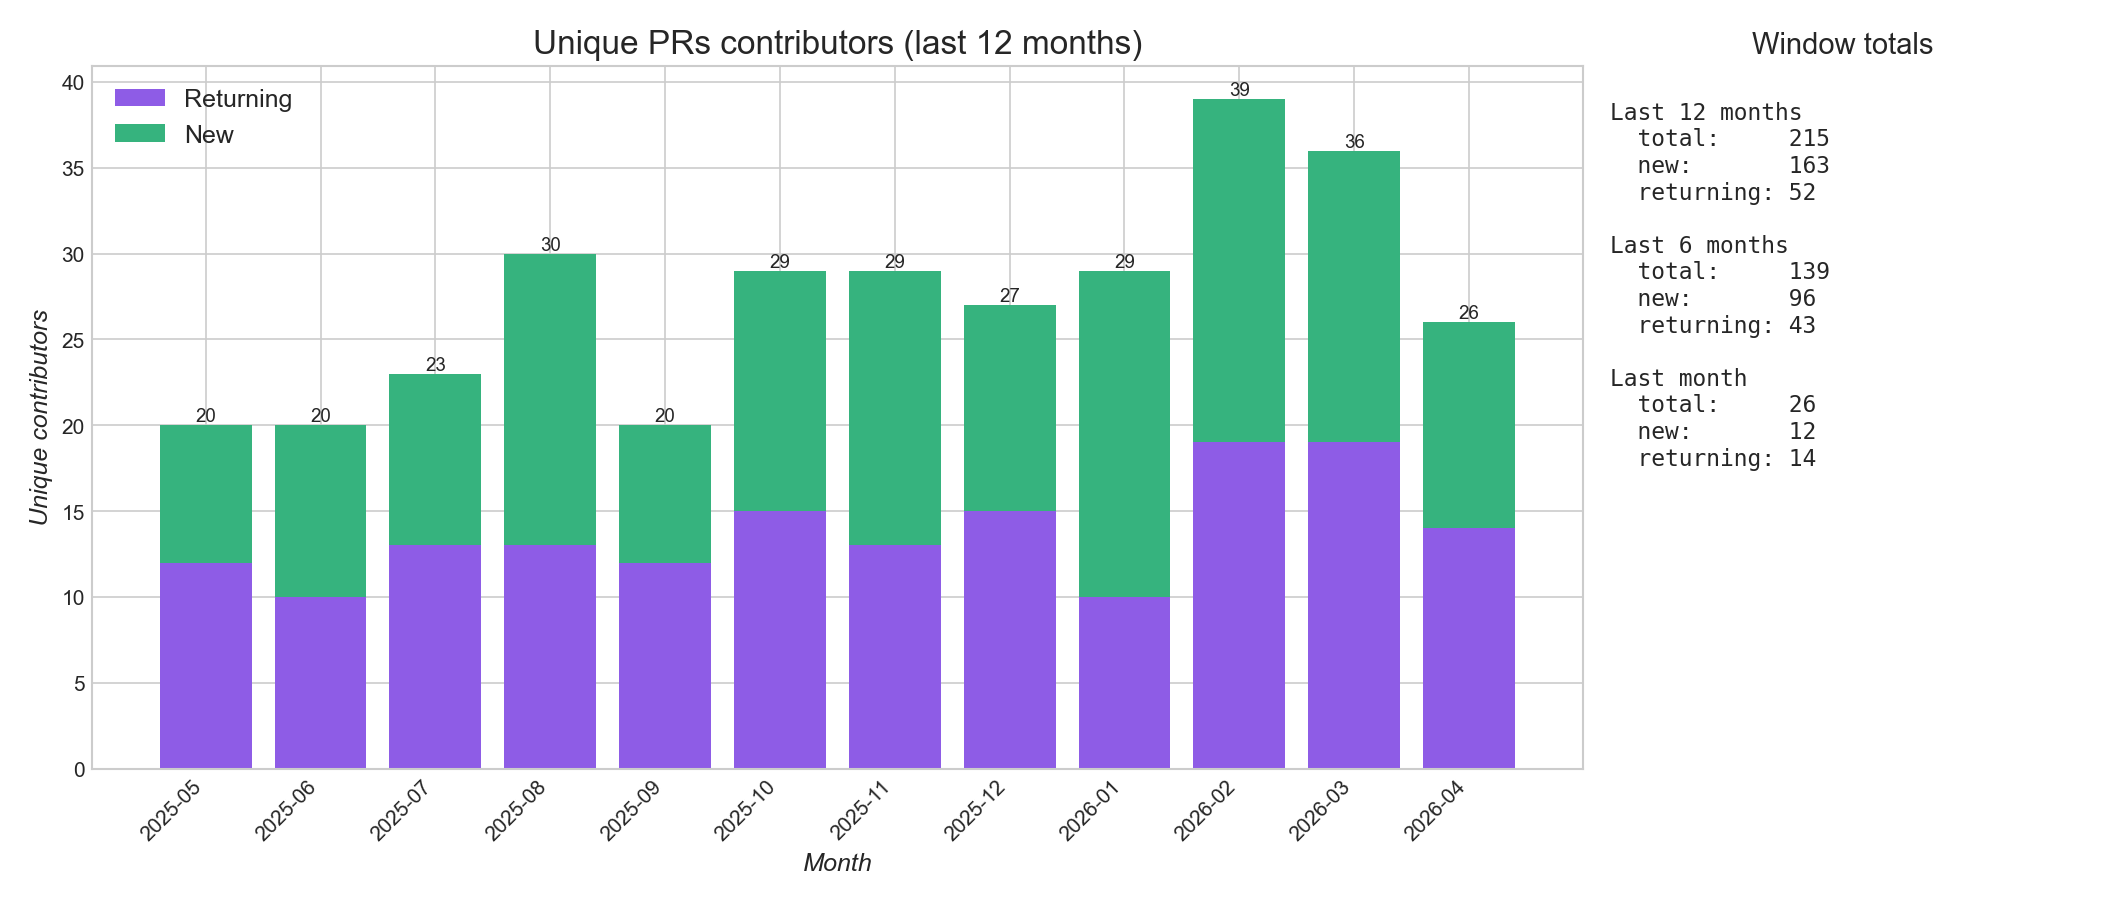
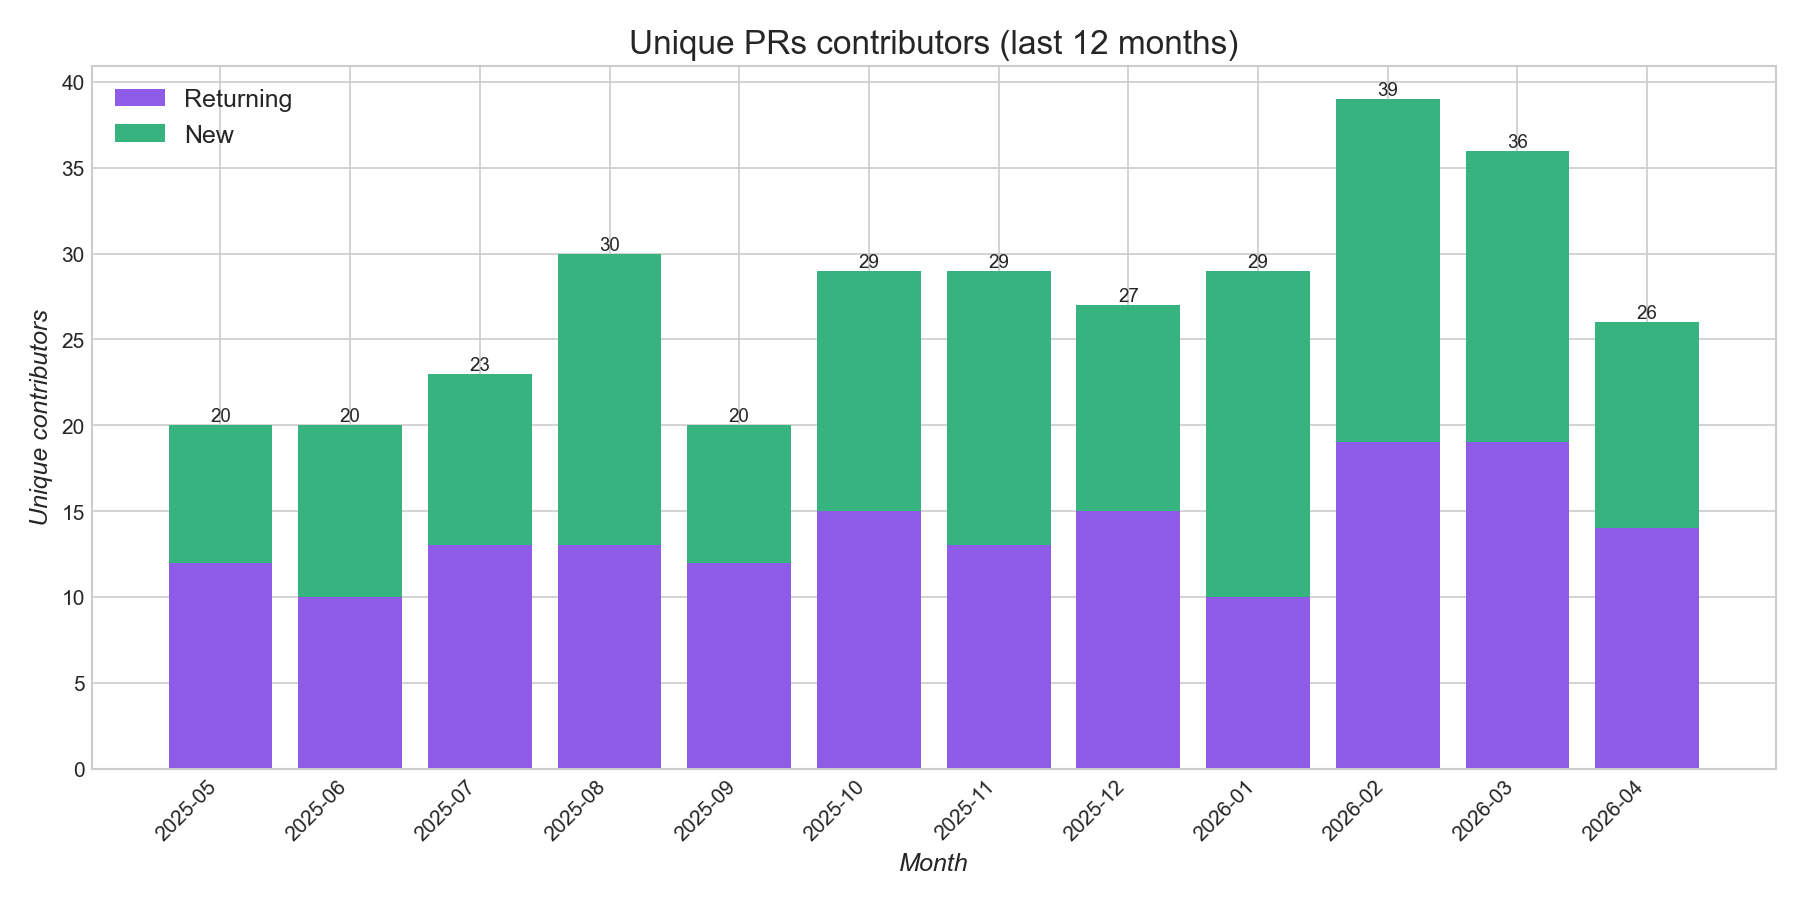
Polish unique-contributors chart; add per-year contributor table
The original chart paired the per-month stacked bars with a right-side
monospaced 'Window totals' panel. The text panel read like a separate
chart glued on, and the 12mo/6mo/1mo comparison was apples-to-oranges
anyway (cumulative windows of different sizes — last 12 months will
always be biggest by construction).

Two changes:

1. Drop the side panel. The timeline chart is now a single coherent
   stacked-bar figure with per-month totals annotated on top of each
   bar. Cleaner for slide use.

2. Replace the side panel with a per-year markdown table rendered into
   trends/{repo}.md between the markers
       <!-- AUTO:yearly-contributors:start -->
       <!-- AUTO:yearly-contributors:end -->
   Columns: Year | Unique | New | Returning. Per-year comparison is
   apples-to-apples and surfaces multi-year growth (e.g. vector PR
   contributors: 153 → 177 → 191 across 2023 → 2024 → 2025). The
   current calendar year is labeled '(YTD, Nmo)' so partial years are
   obvious.

diff --git a/scripts/util/plot.py b/scripts/util/plot.py
@@ -2,6 +2,7 @@ import argparse
 import hashlib
 import logging
 import os
+from pathlib import Path
 
 import matplotlib.pyplot as plt
 import numpy as np
@@ -248,6 +249,14 @@ def main():
 
             output_path = os.path.join(OUTPUT_DIR, f"{prefix}.unique_contributors.png")
             plot_unique_contributors(contributor_csv, table, output_path)
+
+            output_path = os.path.join(OUTPUT_DIR, f"{prefix}.unique_contributors_yearly.png")
+            plot_yearly_contributors(contributor_csv, table, output_path)
+
+            # Same data as the yearly chart, also written as a markdown
+            # table into trends/{repo}.md between AUTO markers.
+            trends_md = Path(SCRIPT_DIR).resolve().parents[1] / "trends" / f"{env['REPO_NAME']}.md"
+            update_yearly_contributors_table(contributor_csv, table, trends_md)
 
     # Discussion trends
     disc_prefix = f"{env['REPO_OWNER']}_{env['REPO_NAME']}_discussions"
@@ -686,20 +695,7 @@ def plot_unique_contributors(path, table, output_path, window_months=12):
         new_counts = per_month.get(True, pd.Series(0, index=window))
         returning_counts = per_month.get(False, pd.Series(0, index=window))
 
-        def window_stats(n_months):
-            recent = window[-n_months:]
-            sub = df_window[df_window["month"].isin(recent)]
-            total = sub["user_login"].nunique()
-            new_users = sub.loc[sub["is_new"], "user_login"].nunique()
-            return total, new_users, total - new_users
-
-        s12 = window_stats(12)
-        s6 = window_stats(6)
-        s1 = window_stats(1)
-
-        fig, (ax, ax_stats) = plt.subplots(
-            1, 2, figsize=(14, 6), gridspec_kw={"width_ratios": [3.2, 1]}
-        )
+        fig, ax = plt.subplots(figsize=(12, 6))
 
         x = np.arange(len(window))
         ax.bar(x, returning_counts.values, color="#8E5CE6", label="Returning")
@@ -715,32 +711,11 @@ def plot_unique_contributors(path, table, output_path, window_months=12):
         ax.set_xticklabels(window, rotation=45, ha="right")
         ax.yaxis.set_major_locator(MaxNLocator(integer=True))
         set_axis_labels(ax, "Month", "Unique contributors")
-        ax.set_title(f"Unique {pretty_table(table)} contributors (last {len(window)} months)", fontsize=16)
-        ax.legend(loc="upper left")
-
-        ax_stats.axis("off")
-        ax_stats.set_title("Window totals", fontsize=14)
-
-        def fmt(label, stats):
-            total, new_users, returning_users = stats
-            return (
-                f"{label}\n"
-                f"  total:     {total}\n"
-                f"  new:       {new_users}\n"
-                f"  returning: {returning_users}\n"
-            )
-
-        text = "\n".join([
-            fmt("Last 12 months", s12),
-            fmt("Last 6 months", s6),
-            fmt("Last month", s1),
-        ])
-        ax_stats.text(
-            0.0, 0.95, text,
-            ha="left", va="top",
-            family="monospace", fontsize=11,
-            transform=ax_stats.transAxes,
+        ax.set_title(
+            f"Unique {pretty_table(table)} contributors (last {len(window)} months)",
+            fontsize=16,
         )
+        ax.legend(loc="upper left")
 
         plt.tight_layout()
         plt.savefig(output_path)
@@ -748,6 +723,166 @@ def plot_unique_contributors(path, table, output_path, window_months=12):
         plt.close()
     except Exception as e:
         logging.warning(f"[{table}] Could not generate unique-contributors plot: {e}")
+
+
+def _yearly_contributor_rows(path):
+    """Compute per-year (year, label, total, new, returning, partial) rows
+    from contributor_monthly.csv. Excludes bots. `partial` is True when
+    the year hasn't fully elapsed yet (typically just the current year)."""
+    df = pd.read_csv(path)
+    if df.empty:
+        return []
+    df = df[~df["user_login"].map(is_bot_login)]
+    df = df.dropna(subset=["month", "user_login"])
+    if df.empty:
+        return []
+
+    df["month"] = df["month"].astype(str)
+    df["year"] = df["month"].str[:4]
+    first_year_by_user = df.groupby("user_login")["month"].min().str[:4]
+
+    today_year = pd.Timestamp.utcnow().year
+    rows = []
+    for year, group in df.groupby("year"):
+        users = group["user_login"].unique()
+        new_c = sum(first_year_by_user[u] == year for u in users)
+        total = len(users)
+        months_seen = group["month"].nunique()
+        partial = int(year) == today_year and months_seen < 12
+        label = f"{year} (YTD, {months_seen}mo)" if partial else f"{year}"
+        rows.append((year, label, total, new_c, total - new_c, partial))
+    rows.sort(key=lambda r: r[0])
+    return rows
+
+
+def plot_yearly_contributors(path, table, output_path, max_years=6):
+    """Horizontal stacked bars: one row per year (last `max_years`),
+    split into new (green) vs returning (purple), with totals annotated."""
+    try:
+        rows = _yearly_contributor_rows(path)
+        if not rows:
+            return
+        rows = rows[-max_years:]
+
+        labels = [r[1] for r in rows]
+        new_vals = np.array([r[3] for r in rows])
+        ret_vals = np.array([r[4] for r in rows])
+        partials = [r[5] for r in rows]
+        totals = new_vals + ret_vals
+
+        fig, ax = plt.subplots(figsize=(10, max(3.5, 0.7 * len(rows) + 1.5)))
+        y = np.arange(len(labels))
+        # Per-row alpha: partial (YTD) years are muted to avoid suggesting
+        # they're directly comparable to full years.
+        alphas = [0.35 if p else 1.0 for p in partials]
+        # Squared edges — rounding stacked segments leaves gaps at the
+        # junction.
+        for i, a in enumerate(alphas):
+            ax.barh(y[i], ret_vals[i], color="#8E5CE6", height=0.55, alpha=a)
+            ax.barh(y[i], new_vals[i], left=ret_vals[i], color="#36B37E",
+                    height=0.55, alpha=a)
+
+        x_pad = max(totals.max() * 0.015, 0.5)
+        for i, (n, r, t, p) in enumerate(zip(new_vals, ret_vals, totals, partials)):
+            text_color_inner = "white"
+            text_color_outer = DARK
+            if p:
+                # Inner labels become dark grey on muted bars so they stay
+                # readable against the lighter fill.
+                text_color_inner = "#555555"
+                text_color_outer = "#555555"
+            if r > 0:
+                ax.text(r / 2, i, str(int(r)), ha="center", va="center",
+                        color=text_color_inner, fontsize=12, fontweight="bold")
+            if n > 0:
+                ax.text(r + n / 2, i, str(int(n)), ha="center", va="center",
+                        color=text_color_inner, fontsize=12, fontweight="bold")
+            ax.text(t + x_pad, i, f"{int(t)} total",
+                    va="center", fontsize=12, color=text_color_outer,
+                    fontweight="bold",
+                    fontstyle="italic" if p else "normal")
+
+        ax.set_yticks(y)
+        ax.set_yticklabels(labels, fontsize=12)
+        for tick, p in zip(ax.get_yticklabels(), partials):
+            if p:
+                tick.set_fontstyle("italic")
+                tick.set_color("#555555")
+        ax.invert_yaxis()
+        ax.set_xlim(right=totals.max() * 1.28)
+
+        ax.set_xticks([])
+        ax.xaxis.set_visible(False)
+        for spine in ("top", "right", "bottom"):
+            ax.spines[spine].set_visible(False)
+        ax.grid(False)
+
+        adj = {"pull_requests": "PR", "issues": "Issue", "discussions": "Discussion"}.get(table, table)
+        ax.set_title(
+            f"Unique {adj} contributors by year",
+            fontsize=18, pad=14,
+        )
+        from matplotlib.patches import Patch
+        ax.legend(
+            handles=[
+                Patch(facecolor="#8E5CE6", label="Returning"),
+                Patch(facecolor="#36B37E", label="New"),
+            ],
+            loc="lower right", frameon=False,
+        )
+
+        plt.tight_layout()
+        plt.savefig(output_path)
+        logging.info(f"Saved plot to {output_path}")
+        plt.close()
+    except Exception as e:
+        logging.warning(f"[{table}] Could not generate yearly contributors chart: {e}")
+
+
+def update_yearly_contributors_table(path, table, trends_md_path):
+    """Compute per-year unique-contributor stats (total / new / returning)
+    and rewrite the section in trends/{repo}.md between the markers
+    <!-- AUTO:yearly-contributors:start --> and ...:end -->."""
+    try:
+        rows = _yearly_contributor_rows(path)
+        if not rows:
+            return
+
+        lines = [
+            "| Year | Unique | New | Returning |",
+            "|------|--------|-----|-----------|",
+        ]
+        for _, label, total, new_c, ret_c, _partial in rows:
+            lines.append(f"| {label} | {total} | {new_c} | {ret_c} |")
+        table_md = "\n".join(lines)
+
+        marker_start = "<!-- AUTO:yearly-contributors:start -->"
+        marker_end = "<!-- AUTO:yearly-contributors:end -->"
+
+        if not trends_md_path.exists():
+            logging.warning(
+                f"[{table}] Trends file not found, skipping yearly table: {trends_md_path}"
+            )
+            return
+        content = trends_md_path.read_text()
+        if marker_start not in content or marker_end not in content:
+            logging.warning(
+                f"[{table}] Markers not found in {trends_md_path}; "
+                f"add a section bracketed by {marker_start} / {marker_end}"
+            )
+            return
+
+        import re
+        pattern = re.compile(
+            re.escape(marker_start) + r".*?" + re.escape(marker_end),
+            re.DOTALL,
+        )
+        replacement = f"{marker_start}\n\n{table_md}\n\n{marker_end}"
+        content = pattern.sub(replacement, content)
+        trends_md_path.write_text(content)
+        logging.info(f"Updated yearly-contributors table in {trends_md_path}")
+    except Exception as e:
+        logging.warning(f"[{table}] Could not update yearly-contributors table: {e}")
 
 
 if __name__ == "__main__":

diff --git a/trends/vector.md b/trends/vector.md
@@ -66,6 +66,26 @@
 
 ![Unique PR Contributors (new vs returning)](../data/images/vectordotdev_vector_pull_requests.unique_contributors.png)
 
+![Unique PR Contributors by year](../data/images/vectordotdev_vector_pull_requests.unique_contributors_yearly.png)
+
+**Unique PR contributors by year**
+
+<!-- AUTO:yearly-contributors:start -->
+
+| Year | Unique | New | Returning |
+|------|--------|-----|-----------|
+| 2018 | 2 | 2 | 0 |
+| 2019 | 45 | 43 | 2 |
+| 2020 | 87 | 74 | 13 |
+| 2021 | 123 | 94 | 29 |
+| 2022 | 142 | 109 | 33 |
+| 2023 | 153 | 110 | 43 |
+| 2024 | 177 | 130 | 47 |
+| 2025 | 191 | 144 | 47 |
+| 2026 (YTD, 4mo) | 104 | 68 | 36 |
+
+<!-- AUTO:yearly-contributors:end -->
+
 *Draft PRs and known bot accounts excluded.*
 
 ## Discussions

diff --git a/trends/quickwit.md b/trends/quickwit.md
@@ -46,6 +46,23 @@
 
 ![Unique PR Contributors (new vs returning)](../data/images/quickwit-oss_quickwit_pull_requests.unique_contributors.png)
 
+![Unique PR Contributors by year](../data/images/quickwit-oss_quickwit_pull_requests.unique_contributors_yearly.png)
+
+**Unique PR contributors by year**
+
+<!-- AUTO:yearly-contributors:start -->
+
+| Year | Unique | New | Returning |
+|------|--------|-----|-----------|
+| 2021 | 12 | 12 | 0 |
+| 2022 | 30 | 24 | 6 |
+| 2023 | 38 | 27 | 11 |
+| 2024 | 36 | 27 | 9 |
+| 2025 | 30 | 22 | 8 |
+| 2026 (YTD, 4mo) | 27 | 13 | 14 |
+
+<!-- AUTO:yearly-contributors:end -->
+
 *Draft PRs and known bot accounts excluded.*
 
 ## Discussions

diff --git a/trends/vrl.md b/trends/vrl.md
@@ -46,6 +46,21 @@
 
 ![Unique PR Contributors (new vs returning)](../data/images/vectordotdev_vrl_pull_requests.unique_contributors.png)
 
+![Unique PR Contributors by year](../data/images/vectordotdev_vrl_pull_requests.unique_contributors_yearly.png)
+
+**Unique PR contributors by year**
+
+<!-- AUTO:yearly-contributors:start -->
+
+| Year | Unique | New | Returning |
+|------|--------|-----|-----------|
+| 2023 | 26 | 26 | 0 |
+| 2024 | 30 | 26 | 4 |
+| 2025 | 29 | 23 | 6 |
+| 2026 (YTD, 4mo) | 12 | 9 | 3 |
+
+<!-- AUTO:yearly-contributors:end -->
+
 *Draft PRs and known bot accounts excluded.*
 
 ## Discussions
